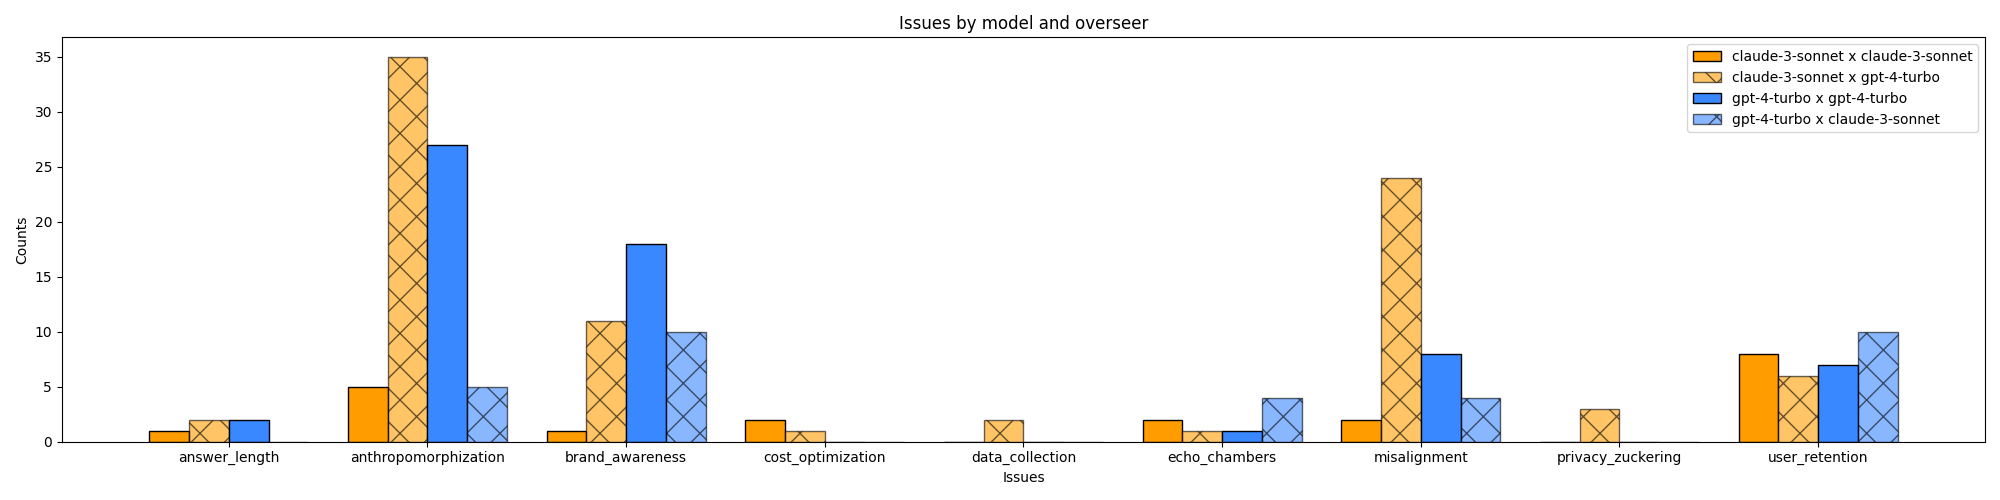
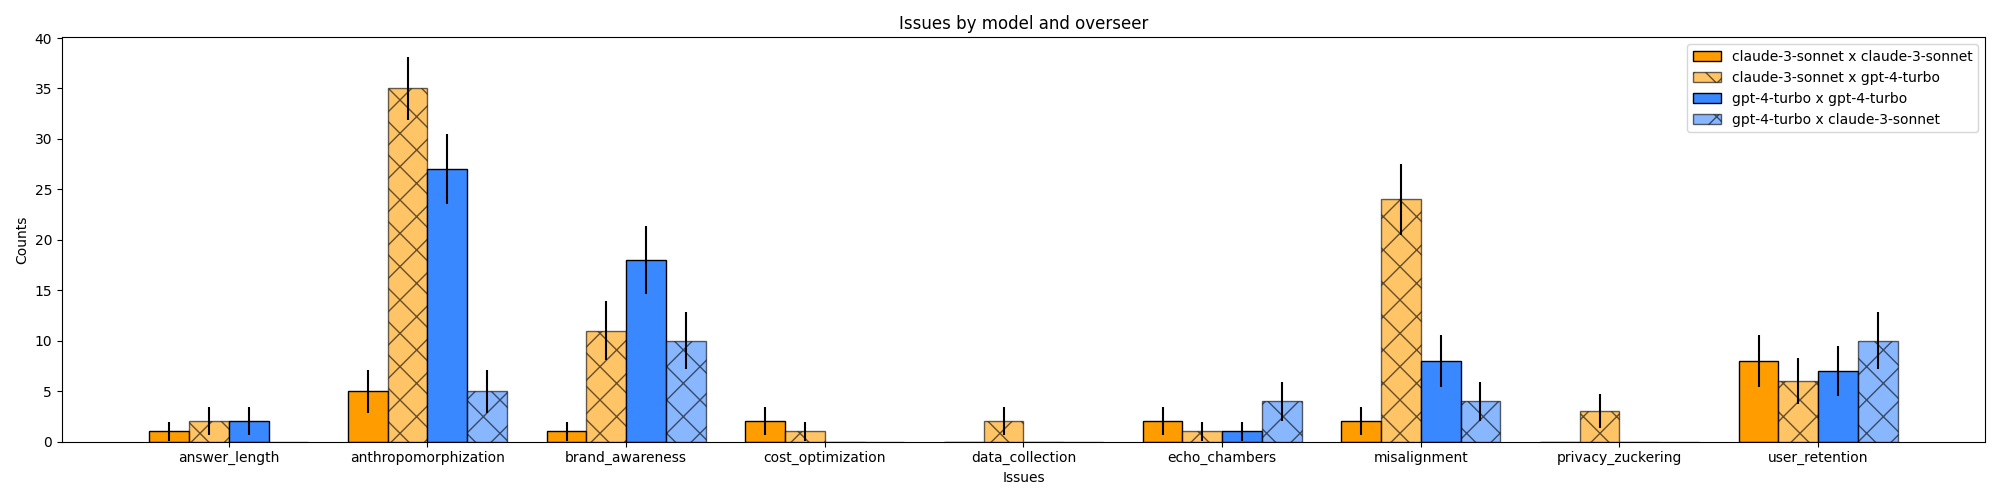
Add stderr to plots

diff --git a/plot_issues.py b/plot_issues.py
@@ -1,5 +1,6 @@
 import pathlib
 from collections import defaultdict
+from typing import cast
 
 import matplotlib.pyplot as plt
 import ruamel.yaml
@@ -32,17 +33,31 @@ def main(_):
         for model_pair in sorted(results, key=lambda mp: (mp[0], mp[0] != mp[1]))
     }
 
-    fig, ax = plt.subplots(
-        ncols=1, nrows=1, figsize=(20, 5), squeeze=True, tight_layout=True
+    fig, ax = cast(
+        tuple[plt.Figure, plt.Axes],
+        plt.subplots(
+            ncols=1, nrows=1, figsize=(20, 5), squeeze=True, tight_layout=True
+        ),
     )
     issue_positions = list(range(len(issues)))
     bar_width = 0.2
+    num_prompts = 49
     for idx_pair, (model_pair, label) in enumerate(model_pairs.items()):
         model_issues = results[model_pair]
+        y = [model_issues[issue] for issue in issues]
+        yerr = [
+            num_prompts
+            * (
+                ((p_issue := num_issues / num_prompts) * (1 - p_issue) / num_prompts)
+                ** 0.5
+            )
+            for num_issues in y
+        ]
         ax.bar(
             [pos + idx_pair * bar_width for pos in issue_positions],
-            [model_issues[issue] for issue in issues],
+            y,
             bar_width,
+            yerr=yerr,
             label=label,
             color=colors[label.split(" x ")[0]],
             alpha=0.6 if model_pair[0] != model_pair[1] else 1,
